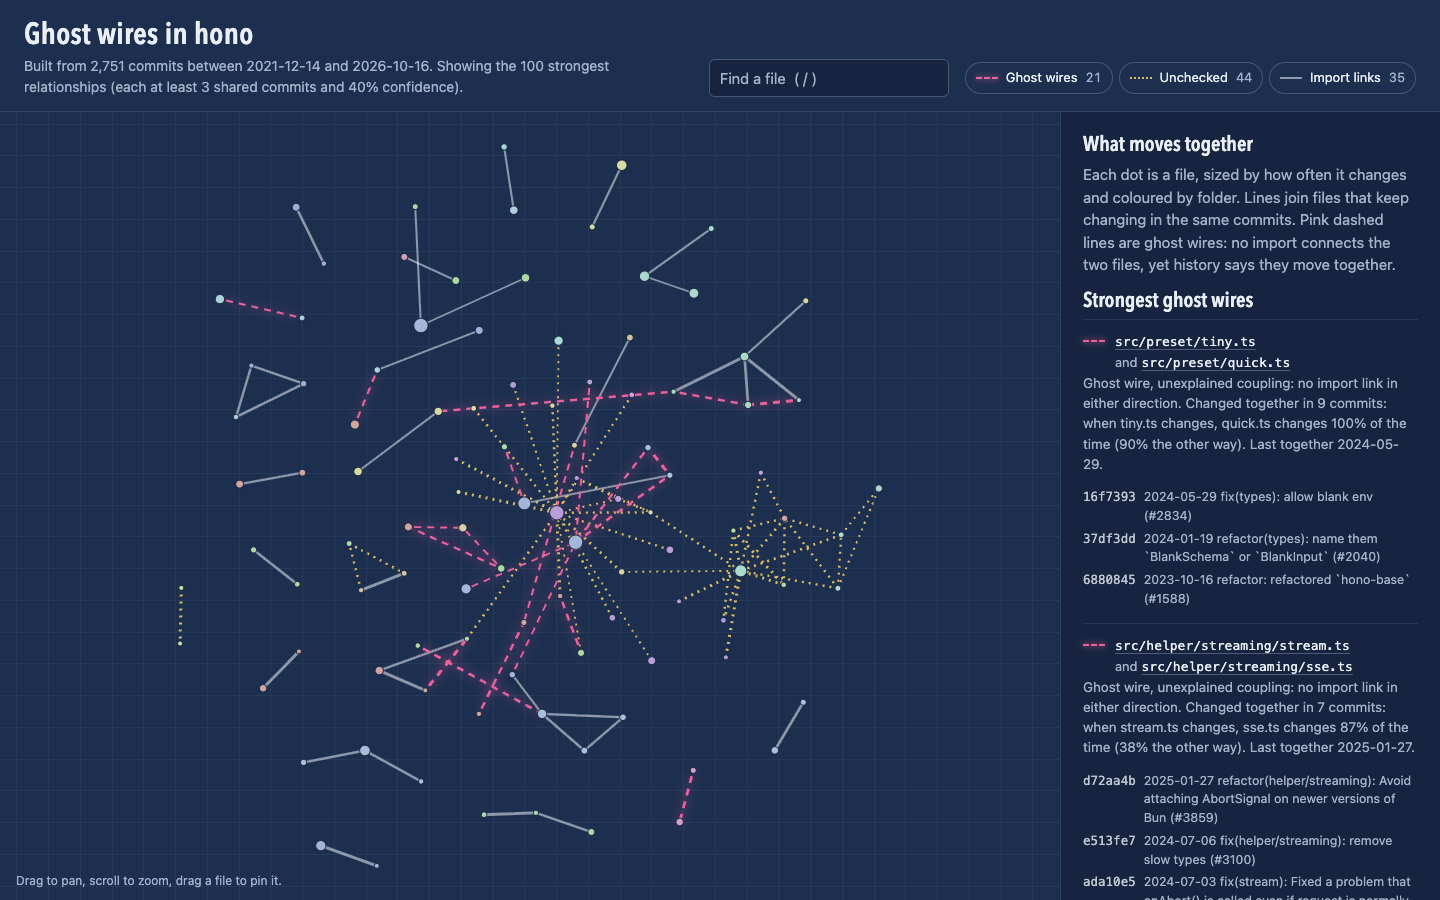
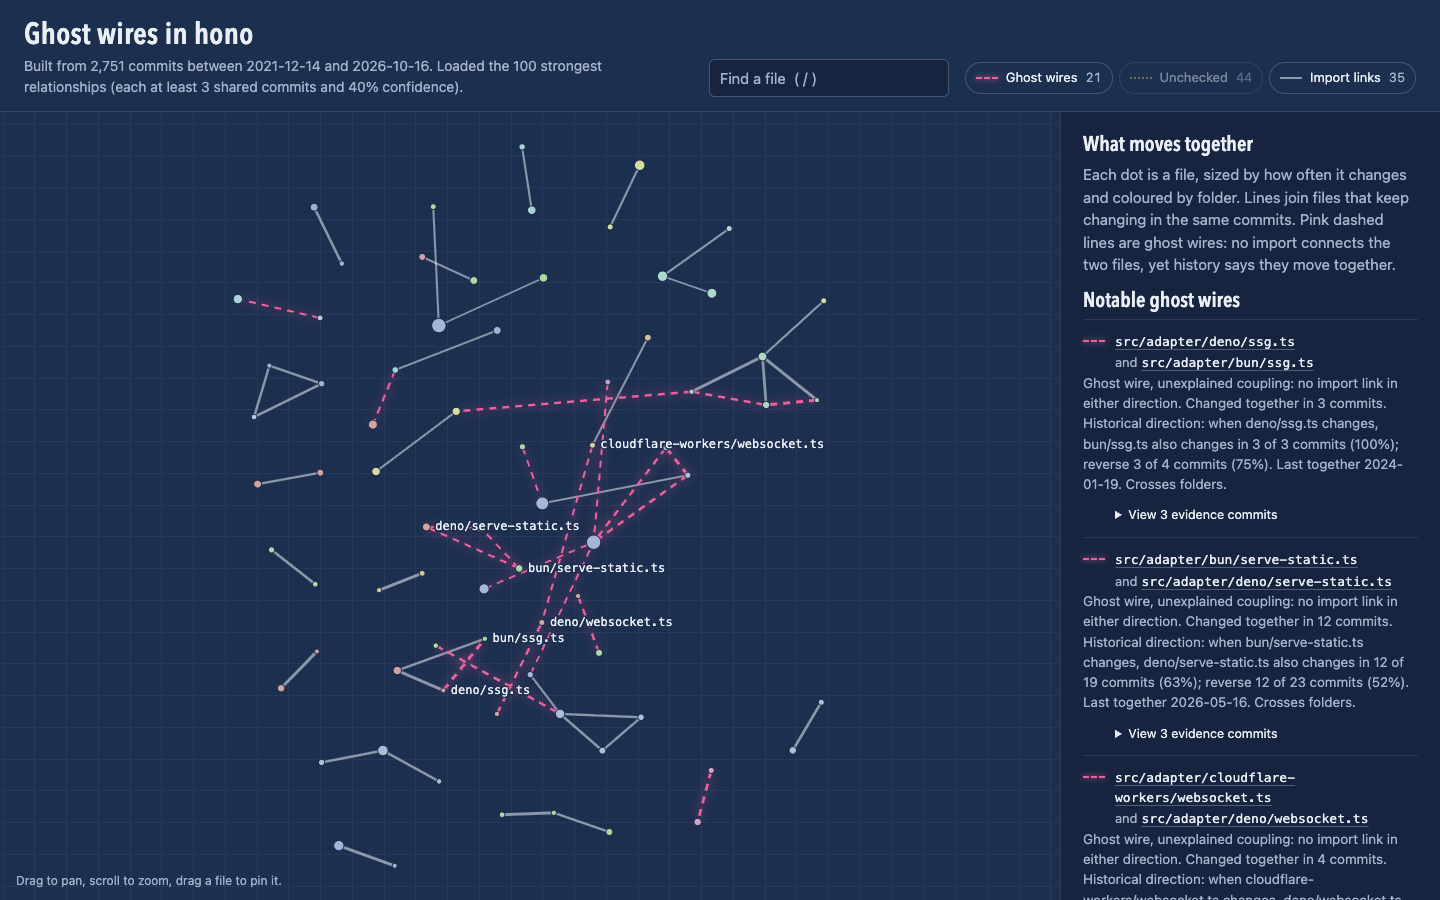
Improve map signal and readability

diff --git a/src/map/template.ts b/src/map/template.ts
@@ -111,12 +111,12 @@ canvas.pointing { cursor: pointer; }
 .panel { overflow-y: auto; padding: 20px 22px 32px; background: var(--ground-deep); border-left: 1px solid rgba(159, 180, 204, 0.18); }
 .panel h2 { margin: 0 0 6px; font: 600 21px/1.2 var(--condensed); font-stretch: condensed; }
 .panel p { margin: 0 0 12px; color: var(--chalk-faded); }
-.panel .path { font-family: var(--code); font-size: 13px; word-break: break-all; color: var(--chalk); }
+.panel .path { font-family: var(--code); font-size: 13px; overflow-wrap: anywhere; color: var(--chalk); }
 .panel ol, .panel ul { list-style: none; margin: 0; padding: 0; }
 .rel { padding: 12px 0; border-top: 1px solid rgba(159, 180, 204, 0.14); }
 .rel-head { display: flex; gap: 10px; align-items: baseline; }
 .rel-head .swatch { flex: none; transform: translateY(-4px); }
-.file-link { padding: 0; border: 0; background: none; text-align: left; cursor: pointer; font-family: var(--code); font-size: 13px; word-break: break-all; text-decoration: underline; text-decoration-color: rgba(159, 180, 204, 0.4); text-underline-offset: 3px; }
+.file-link { padding: 0; border: 0; background: none; text-align: left; cursor: pointer; font-family: var(--code); font-size: 13px; overflow-wrap: anywhere; text-decoration: underline; text-decoration-color: rgba(159, 180, 204, 0.4); text-underline-offset: 3px; }
 .file-link:hover { text-decoration-color: var(--tape); }
 .pair { display: grid; gap: 2px; }
 .pair .file-link + .file-link::before { content: "and "; font-family: var(--text); color: var(--chalk-faded); text-decoration: none; display: inline-block; margin-right: 4px; }
@@ -124,6 +124,9 @@ canvas.pointing { cursor: pointer; }
 .evidence { margin: 6px 0 0 32px; font-size: 12.5px; color: var(--chalk-faded); }
 .evidence li { display: grid; grid-template-columns: auto 1fr; gap: 0 8px; padding: 2px 0; }
 .evidence .hash { font-family: var(--code); color: var(--chalk); opacity: 0.8; }
+.evidence-wrap { margin: 7px 0 0 32px; color: var(--chalk-faded); font-size: 12.5px; }
+.evidence-wrap summary { width: fit-content; cursor: pointer; color: var(--chalk); }
+.evidence-wrap .evidence { margin: 5px 0 0; }
 .clear { margin-top: 18px; padding: 6px 12px; border: 1px solid rgba(159, 180, 204, 0.35); border-radius: 6px; background: transparent; cursor: pointer; }
 .empty { padding: 40px 24px; max-width: 46ch; }
 
@@ -146,9 +149,10 @@ const CLIENT = String.raw`
     test: { label: 'Test links', color: '#7fd1b0' }
   };
   var ORDER = ['ghost', 'unknown', 'direct', 'test'];
+  var hasPrimary = data.edges.some(function (e) { return e.relationship !== 'unknown'; });
   var visible = {
     ghost: data.edges.some(function (e) { return e.relationship === 'ghost'; }),
-    unknown: data.edges.some(function (e) { return e.relationship === 'unknown'; }),
+    unknown: !hasPrimary && data.edges.some(function (e) { return e.relationship === 'unknown'; }),
     direct: data.edges.some(function (e) { return e.relationship === 'direct'; }),
     test: data.edges.some(function (e) { return e.relationship === 'test'; })
   };
@@ -168,6 +172,7 @@ const CLIENT = String.raw`
   }
   function pct(x) { return Math.floor(x * 100 + 1e-9) + '%'; }
   function base(p) { var i = p.lastIndexOf('/'); return i < 0 ? p : p.slice(i + 1); }
+  function shortPath(p) { var parts = p.split('/'); return parts.slice(-2).join('/'); }
   function plural(n, w) { return n.toLocaleString('en-US') + ' ' + w + (n === 1 ? '' : 's'); }
 
   // Deterministic layout: the same repo produces the same picture every time.
@@ -203,6 +208,16 @@ const CLIENT = String.raw`
     edge.t.edges.push(edge);
     return edge;
   });
+  var overviewGhosts = edges.filter(function (e) { return e.d.relationship === 'ghost'; }).sort(function (a, b) {
+    return Number(b.d.crossesDirectories) - Number(a.d.crossesDirectories) ||
+      Math.min(b.d.confidence, b.d.reverseConfidence) - Math.min(a.d.confidence, a.d.reverseConfidence) ||
+      b.d.shared - a.d.shared;
+  });
+  var overviewLabelNodes = {};
+  overviewGhosts.slice(0, 3).forEach(function (e) {
+    overviewLabelNodes[e.s.i] = true;
+    overviewLabelNodes[e.t.i] = true;
+  });
   dirList.forEach(function (d, i) {
     var angle = (i / Math.max(1, dirList.length)) * Math.PI * 2;
     var radius = 120 + 40 * Math.sqrt(dirList.length);
@@ -219,7 +234,7 @@ const CLIENT = String.raw`
   var m = data.meta;
   var span = m.oldestCommit && m.newestCommit ? ' between ' + m.oldestCommit + ' and ' + m.newestCommit : '';
   document.getElementById('summary').textContent =
-    'Built from ' + plural(m.commitsAnalyzed, 'commit') + span + '. Showing the ' + plural(edges.length, 'strongest relationship') +
+    'Built from ' + plural(m.commitsAnalyzed, 'commit') + span + '. Loaded the ' + plural(edges.length, 'strongest relationship') +
     ' (each at least ' + m.settings.minShared + ' shared commits and ' + pct(m.settings.minConfidence) + ' confidence).';
 
   var toggles = document.getElementById('toggles');
@@ -236,6 +251,7 @@ const CLIENT = String.raw`
       visible[kind] = !visible[kind];
       b.setAttribute('aria-pressed', String(visible[kind]));
       if (selectedEdge && !visible[selectedEdge.d.relationship]) selectedEdge = null;
+      if (!selectedNode && !selectedEdge && !userMoved) { flight = null; fit(); }
       renderPanel();
       requestDraw();
     });
@@ -335,7 +351,6 @@ const CLIENT = String.raw`
   var selectedNode = null, selectedEdge = null, hoverNode = null, matches = null;
   function isVisible(e) { return visible[e.d.relationship]; }
   function isActive(n) { return n.edges.some(isVisible); }
-  function hasGhost(n) { return visible.ghost && n.edges.some(function (e) { return e.d.relationship === 'ghost'; }); }
   function focusEdge(e) {
     if (selectedEdge) return e === selectedEdge;
     if (selectedNode) return e.s === selectedNode || e.t === selectedNode;
@@ -439,9 +454,10 @@ const CLIENT = String.raw`
     nodes.forEach(function (n) {
       var overview = !selectedNode && !selectedEdge && !matches;
       var wanted = n === hoverNode || n === selectedNode || (matches && matches.indexOf(n) >= 0) ||
-        ((selectedNode || selectedEdge) && focusNode(n)) || (overview && (n.r * k > 9 || (hasGhost(n) && k >= 0.5)));
+        ((selectedNode || selectedEdge) && focusNode(n)) ||
+        (overview && (n.r * k > 9 || (visible.ghost && overviewLabelNodes[n.i])));
       if (!wanted || !isActive(n)) return;
-      var label = base(n.path);
+      var label = overviewLabelNodes[n.i] ? shortPath(n.path) : base(n.path);
       var x = n.x + n.r + 5 / k;
       ctx.lineWidth = 4 / k;
       ctx.strokeStyle = 'rgba(19, 48, 79, 0.92)';
@@ -521,6 +537,7 @@ const CLIENT = String.raw`
       tooltip.textContent = '';
       if (n) {
         tooltip.appendChild(el('code', '', n.path));
+        tooltip.appendChild(el('div', '', 'Folder: ' + n.dir));
         tooltip.appendChild(el('div', '', 'Changed in ' + plural(n.changes, 'commit')));
       } else {
         tooltip.appendChild(el('div', '', KINDS[e.d.relationship].label.replace(/s$/, '') + ': ' + base(e.s.path) + ' and ' + base(e.t.path)));
@@ -601,7 +618,9 @@ const CLIENT = String.raw`
     b.addEventListener('click', function () { selectNode(n); });
     return b;
   }
-  function evidenceList(e) {
+  function evidenceDetails(e) {
+    var details = el('details', 'evidence-wrap');
+    details.appendChild(el('summary', '', 'View ' + plural(e.d.evidence.length, 'evidence commit')));
     var list = el('ul', 'evidence');
     e.d.evidence.forEach(function (ev) {
       var li = el('li');
@@ -609,13 +628,19 @@ const CLIENT = String.raw`
       li.appendChild(el('span', '', ev.date + '  ' + ev.subject));
       list.appendChild(li);
     });
-    return list;
+    details.appendChild(list);
+    return details;
+  }
+  function directionEvidence(e, fromSource) {
+    var total = fromSource ? e.d.fromChanges : e.d.toChanges;
+    var confidence = fromSource ? e.d.confidence : e.d.reverseConfidence;
+    if (e.d.weighted) return pct(confidence) + ' recency-weighted confidence (' + e.d.shared + ' shared / ' + total + ' raw commits)';
+    return e.d.shared + ' of ' + total + ' commits (' + pct(confidence) + ')';
   }
   /** One relationship, described from the point of view of 'from'. */
   function relationshipItem(e, from, showBoth) {
     var other = e.s === from ? e.t : e.s;
-    var forward = e.s === from ? e.d.confidence : e.d.reverseConfidence;
-    var backward = e.s === from ? e.d.reverseConfidence : e.d.confidence;
+    var fromSource = e.s === from;
     var li = el('li', 'rel');
     var head = el('div', 'rel-head');
     head.appendChild(el('span', 'swatch ' + e.d.relationship));
@@ -628,10 +653,12 @@ const CLIENT = String.raw`
       head.appendChild(fileButton(other));
     }
     li.appendChild(head);
+    var scope = e.d.crossesDirectories ? ' Crosses folders.' : '';
     li.appendChild(el('p', 'rel-body',
       KINDS[e.d.relationship].label.replace(/s$/, '') + ', ' + e.d.why + '. Changed together in ' + plural(e.d.shared, 'commit') +
-      ': when ' + base(from.path) + ' changes, ' + base(other.path) + ' changes ' + pct(forward) + ' of the time (' + pct(backward) + ' the other way). Last together ' + e.d.lastTogether + '.'));
-    li.appendChild(evidenceList(e));
+      '. Historical direction: when ' + shortPath(from.path) + ' changes, ' + shortPath(other.path) + ' also changes in ' + directionEvidence(e, fromSource) +
+      '; reverse ' + directionEvidence(e, !fromSource) + '. Last together ' + e.d.lastTogether + '.' + scope));
+    if (e.d.evidence.length > 0) li.appendChild(evidenceDetails(e));
     return li;
   }
 
@@ -657,9 +684,9 @@ const CLIENT = String.raw`
     } else {
       panel.appendChild(el('h2', '', 'What moves together'));
       panel.appendChild(el('p', '', 'Each dot is a file, sized by how often it changes and coloured by folder. Lines join files that keep changing in the same commits. Pink dashed lines are ghost wires: no import connects the two files, yet history says they move together.'));
-      var ghosts = edges.filter(function (e) { return e.d.relationship === 'ghost'; }).slice(0, 10);
+      var ghosts = overviewGhosts.slice(0, 10);
       if (ghosts.length > 0) {
-        panel.appendChild(el('h2', '', 'Strongest ghost wires'));
+        panel.appendChild(el('h2', '', 'Notable ghost wires'));
         var list3 = el('ol');
         ghosts.forEach(function (e) { list3.appendChild(relationshipItem(e, e.s, true)); });
         panel.appendChild(list3);

diff --git a/src/commands/map.ts b/src/commands/map.ts
@@ -33,9 +33,13 @@ export interface MapEdge {
   why: string;
   hiddenBridge?: HiddenBridge;
   shared: number;
+  fromChanges: number;
+  toChanges: number;
   confidence: number;
   reverseConfidence: number;
+  weighted: boolean;
   lastTogether: string;
+  crossesDirectories: boolean;
   evidence: { hash: string; date: string; subject: string }[];
 }
 
@@ -84,9 +88,13 @@ export function buildMapData(ctx: Context, options: Pick<MapOptions, 'edges' | '
       why: view.why,
       hiddenBridge: view.hiddenBridge,
       shared: view.shared,
+      fromChanges: view.fromChanges,
+      toChanges: view.toChanges,
       confidence: view.confidence,
       reverseConfidence: view.reverseConfidence,
+      weighted: view.weighted,
       lastTogether: view.lastTogether,
+      crossesDirectories: view.crossesDirectories,
       evidence: view.evidence.map((e) => ({ hash: e.hash, date: e.date, subject: e.subject })),
     });
   }

diff --git a/test/commands.test.ts b/test/commands.test.ts
@@ -136,7 +136,13 @@ describe('map', () => {
     assert.equal(data.edges.length, 2);
     for (const e of data.edges) {
       assert.ok(data.nodes[e.source] && data.nodes[e.target]);
+      assert.ok(e.fromChanges >= e.shared);
+      assert.ok(e.toChanges >= e.shared);
+      assert.equal(e.weighted, false);
     }
+    const ghost = buildMapData(ctx, { edges: 1, kinds: ['ghost'] }).edges[0];
+    assert.ok(ghost);
+    assert.equal(ghost?.crossesDirectories, true);
   });
 });
 
